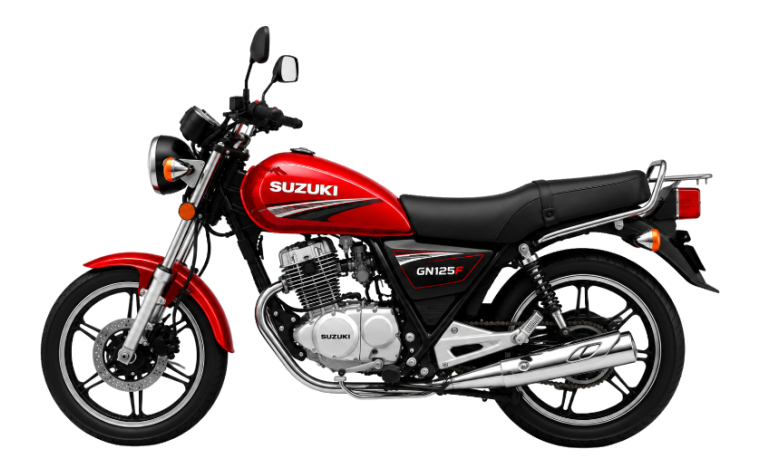
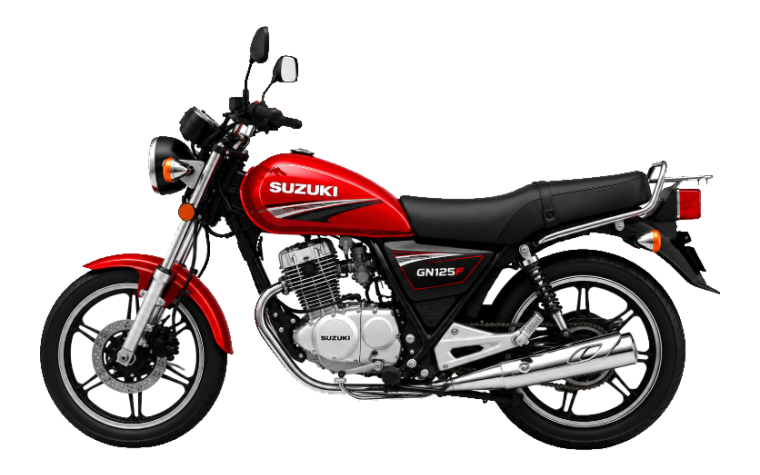
Eliminacion de halo blanco en imagen GN200 y humo mas visible y animado en separadores de seccion

diff --git a/css/styles.css b/css/styles.css
@@ -113,14 +113,14 @@ main{display:block}
 .dv-halo{position:absolute;width:88%;aspect-ratio:1.5/1;border-radius:50%;
   background:radial-gradient(ellipse,rgba(245,196,0,.20),rgba(245,196,0,.04) 52%,transparent 72%);filter:blur(8px);z-index:0}
 .dv-veh img{position:relative;width:100%;max-width:600px;object-fit:contain;filter:drop-shadow(0 26px 28px rgba(0,0,0,.6));z-index:2}
-.dv-veh::after{content:"";position:absolute;left:50%;bottom:-20px;width:90%;height:120px;transform:translateX(-50%);
-  background:radial-gradient(ellipse at 30% 60%,rgba(255,255,255,.09),transparent 50%),
-             radial-gradient(ellipse at 70% 50%,rgba(255,255,255,.07),transparent 50%),
-             radial-gradient(ellipse at 50% 80%,rgba(255,255,255,.08),transparent 60%);
-  filter:blur(22px);z-index:1;pointer-events:none;animation:dv-smoke-float 8s ease-in-out infinite alternate}
+.dv-veh::after{content:"";position:absolute;left:50%;bottom:-30px;width:95%;height:160px;transform:translateX(-50%);
+  background:radial-gradient(ellipse at 25% 70%,rgba(240,240,245,.34),transparent 60%),
+             radial-gradient(ellipse at 75% 60%,rgba(235,235,240,.30),transparent 55%),
+             radial-gradient(ellipse at 50% 80%,rgba(255,255,255,.26),transparent 65%);
+  filter:blur(28px);z-index:1;pointer-events:none;animation:dv-smoke-float 7s ease-in-out infinite alternate}
 @keyframes dv-smoke-float{
-  0%{transform:translateX(-50%) scale(1) translateY(0);opacity:.8}
-  100%{transform:translateX(-48%) scale(1.08) translateY(-4px);opacity:.95}
+  0%{transform:translateX(-50%) scale(1) translateY(0);opacity:.85}
+  100%{transform:translateX(-48%) scale(1.08) translateY(-6px);opacity:1}
 }
 
 /* ---- PRODUCT ---- */